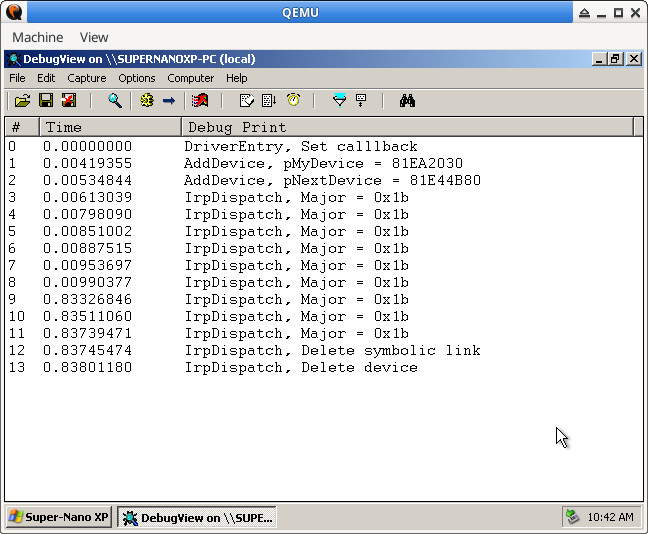
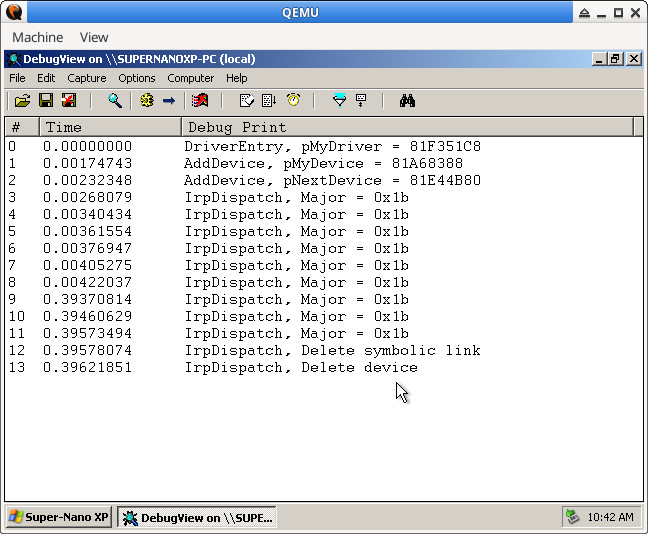
WDM Refine.

diff --git a/driver/wdm_file.htm b/driver/wdm_file.htm
@@ -74,7 +74,7 @@
 <div id="page">
 
 <!-- body -->
-<h3><a href="../driver.htm">驅動程式</a> - Windows Driver Model (WDM) - 教學說明 - <b>4. User Application透過File跟驅動程式溝通</b></h3>
+<h3><a href="../driver.htm">驅動程式</a> - Windows Driver Model (WDM) - 教學說明 - <b>4. Application透過File跟驅動程式溝通</b></h3>
 <hr size="1"><br>
 <p>
 基本上，驅動程式(韌體)的功能就是做為User Application(軟體)和硬體的溝通橋樑，User Application可以透過很多種方式和驅動程式溝通，而最常用的溝通方式就是把驅動程式當做一個檔案來操作，User Application可以透過檔案讀寫的方式和驅動程式做資料交換，最後，驅動程式再把資料讀寫到硬體裝置上，而在Windows系統上，可以使用的Win32 API有CreateFile(檔案開啟)、ReadFile(讀取檔案)、WriteFile(寫入檔案)、CloseHandle(關閉檔案)等檔案操作的API，必須記得open()並不能用來開啟驅動程式，那User Application和驅動程式的串接過程是如何發生的呢？首先，驅動程式必須在DriverEntry()設定IRP_MJ_CREATE(<b>CreateFile</b>)、IRP_MJ_READ(<b>ReadFile</b>)、IRP_MJ_WRITE(<b>WriteFile</b>)、IRP_MJ_CLOSE(<b>CloseHandle</b>)的Callback副程式，接著驅動程式必須設定裝置要使用的名稱，可以是GUID或者Symbolic Link格式，最後，當User Application透過檔案系統開啟這個GUID或者Symbolic Link名稱時，I/O Manager就會幫忙串接到對應的驅動程式，此後，User Application就可以透過開啟的檔案Handle開始和驅動程式做資料交換<br><br>

diff --git a/driver.htm b/driver.htm
@@ -78,15 +78,15 @@ Windows Driver Model (WDM)</h3>
 
     &emsp;&emsp;&emsp;&emsp;&dash;
     <a href="driver/wdm_adddevice.htm">
-    2. 系統透過呼叫AddDevice()來新增裝置</a><br>
+    2. 系統呼叫AddDevice()新增裝置</a><br>
 
     &emsp;&emsp;&emsp;&emsp;&dash;
     <a href="driver/wdm_driverunload.htm">
-    3. 系統透過呼叫DriverUnload()來卸載驅動程式</a><br>
+    3. 系統呼叫DriverUnload()卸載驅動程式</a><br>
 
     &emsp;&emsp;&emsp;&emsp;&dash;
     <a href="driver/wdm_file.htm">
-    4. User Application透過File跟驅動程式溝通</a><br>
+    4. Application透過File跟驅動程式溝通</a><br>
 
     &emsp;&emsp;&emsp;&emsp;&dash;
     <a href="driver/wdm_file_buffer.htm">
@@ -94,7 +94,7 @@ Windows Driver Model (WDM)</h3>
 
     &emsp;&emsp;&emsp;&emsp;&dash;
     <a href="driver/wdm_ioctl.htm">
-    6. User Application透過IOCTL跟驅動程式溝通</a><br>
+    6. Application透過IOCTL跟驅動程式溝通</a><br>
 
     &emsp;&emsp;&emsp;&emsp;&dash;
     <a href="driver/wdm_ioctl_buffer.htm">

diff --git a/driver/wdm_driverunload.htm b/driver/wdm_driverunload.htm
@@ -74,7 +74,7 @@
 <div id="page">
 
 <!-- body -->
-<h3><a href="../driver.htm">驅動程式</a> - Windows Driver Model (WDM) - 教學說明 - <b>3. 系統透過呼叫DriverUnload()來卸載驅動程式</b></h3>
+<h3><a href="../driver.htm">驅動程式</a> - Windows Driver Model (WDM) - 教學說明 - <b>3. 系統呼叫DriverUnload()卸載驅動程式</b></h3>
 <hr size="1"><br>
 <p>
 當驅動程式準備被系統卸載時，DriverUnload()會被系統呼叫，這是驅動程式最後可以釋放資源的地方，若沒有適當的釋放資源，則驅動程式無法被卸載，遇到這種狀況時，系統會提示需要重新開機才可以正確卸載驅動程式，而DriverUnload()是在DriverEntry()裡面註冊的，所以系統才會知道DriverUnload()位於何處<br><br>

diff --git a/driver/wdm_adddevice.htm b/driver/wdm_adddevice.htm
@@ -74,7 +74,7 @@
 <div id="page">
 
 <!-- body -->
-<h3><a href="../driver.htm">驅動程式</a> - Windows Driver Model (WDM) - 教學說明 - <b>2. 系統透過呼叫AddDevice()來新增裝置</b></h3>
+<h3><a href="../driver.htm">驅動程式</a> - Windows Driver Model (WDM) - 教學說明 - <b>2. 系統呼叫AddDevice()新增裝置</b></h3>
 <hr size="1"><br>
 <p>
 當系統找到對應的裝置(透過INF檔案安裝後)且驅動程式被系統成功載入後，AddDevice()就會被系統呼叫，而AddDevice()是在DriverEntry()裡面註冊的，所以系統才會知道AddDevice()位於何處，名稱不一定要用AddDevice，但是參數跟回傳值必須遵照Microsoft的定義，否則會有問題<br><br>

diff --git a/driver/wdm_cpp_unload_driver.htm b/driver/wdm_cpp_unload_driver.htm
@@ -134,12 +134,12 @@ static NTSTATUS IrpDispatch(PDEVICE_OBJECT pMyDevice, PIRP pIrp)
 
 static VOID Unload(PDRIVER_OBJECT pMyDriver)
 {
-    DbgPrint("%s\n", __FUNCTION__);
+    DbgPrint("%s, pMyDriver = %p\n", __FUNCTION__, pMyDriver);
 }
  
 NTSTATUS DriverEntry(PDRIVER_OBJECT pMyDriver, PUNICODE_STRING pMyRegistry)
 {
-    DbgPrint("%s, Set calllback\n", __FUNCTION__);
+    DbgPrint("%s, pMyDriver = %p\n", __FUNCTION__, pMyDriver);
     pMyDriver-&gt;MajorFunction[IRP_MJ_PNP] = IrpDispatch;
     pMyDriver-&gt;DriverExtension-&gt;AddDevice = AddDevice;
     pMyDriver-&gt;DriverUnload = Unload;

diff --git a/driver/wdm_cpp_add_device.htm b/driver/wdm_cpp_add_device.htm
@@ -134,7 +134,7 @@ static NTSTATUS IrpDispatch(PDEVICE_OBJECT pMyDevice, PIRP pIrp)
   
 NTSTATUS DriverEntry(PDRIVER_OBJECT pMyDriver, PUNICODE_STRING pMyRegistry)
 {
-    DbgPrint("%s, Set calllback\n", __FUNCTION__);
+    DbgPrint("%s, pMyDriver = %p\n", __FUNCTION__, pMyDriver);
     pMyDriver-&gt;MajorFunction[IRP_MJ_PNP] = IrpDispatch;
     pMyDriver-&gt;DriverExtension-&gt;AddDevice = AddDevice;
 

diff --git a/driver/wdm_ioctl.htm b/driver/wdm_ioctl.htm
@@ -74,7 +74,7 @@
 <div id="page">
 
 <!-- body -->
-<h3><a href="../driver.htm">驅動程式</a> - Windows Driver Model (WDM) - 教學說明 - <b>6. User Application透過IOCTL跟驅動程式溝通</b></h3>
+<h3><a href="../driver.htm">驅動程式</a> - Windows Driver Model (WDM) - 教學說明 - <b>6. Application透過IOCTL跟驅動程式溝通</b></h3>
 <hr size="1"><br>
 <p>
 參考資訊：<br>
